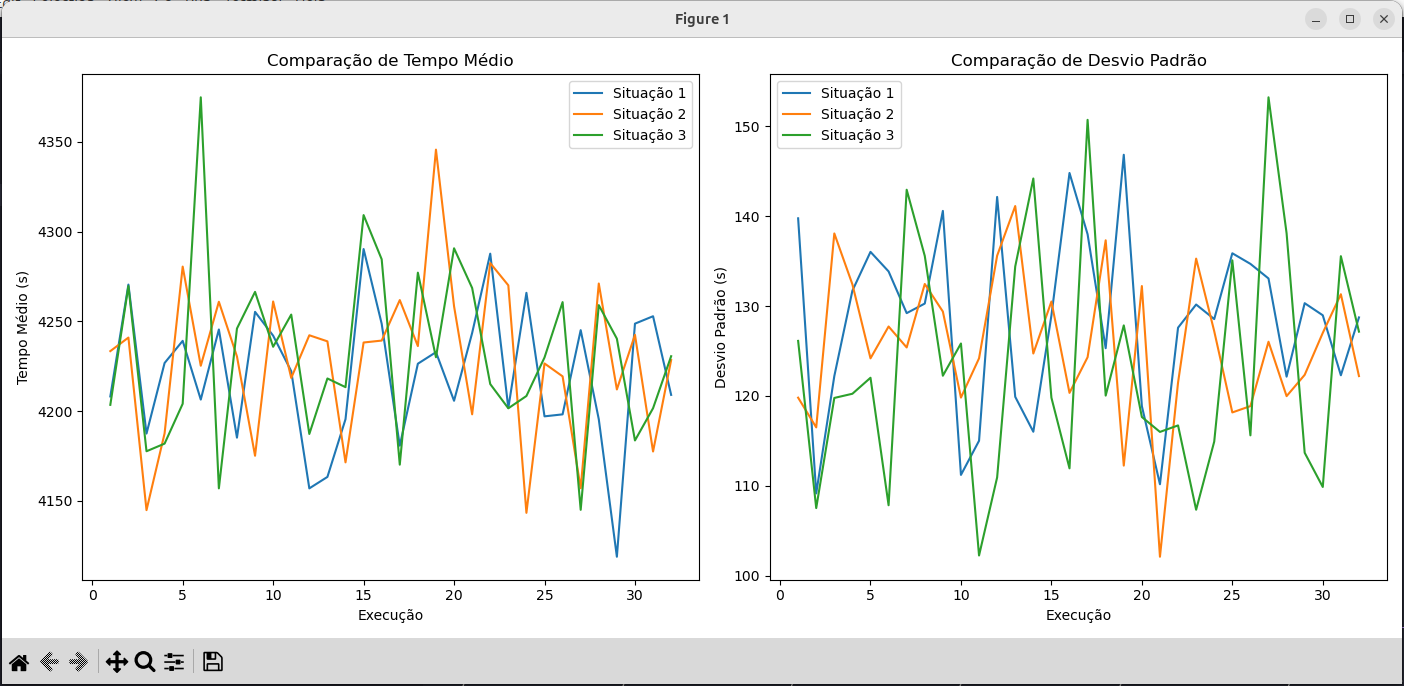
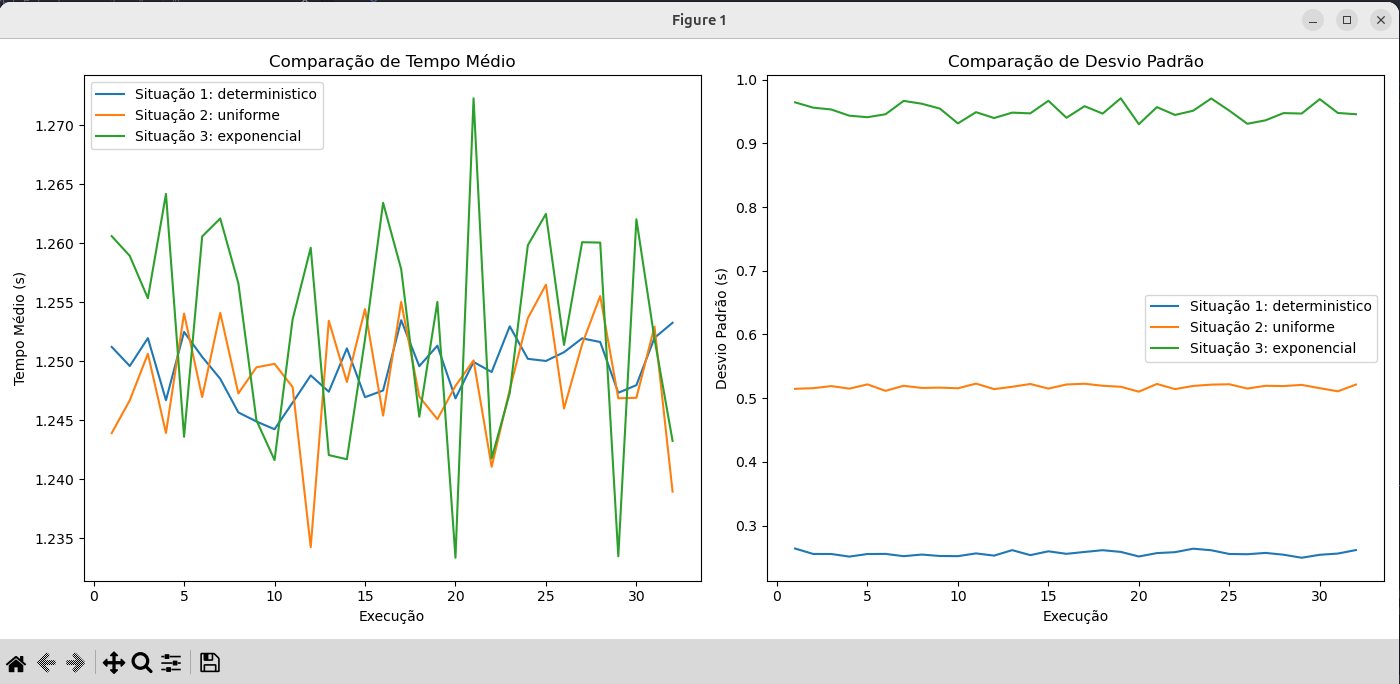
Update simulation metrics to include minimum and maximum system times; enhance analysis in RELATÓRIO.md

diff --git a/queue_simulation/single_simulation.py b/queue_simulation/single_simulation.py
@@ -6,7 +6,9 @@ lambda_chegada = 2
 for i, situacao in enumerate(situacoes, 1):
     sistema = Sistema(lambda_chegada, situacao["tempos_servico"], situacao["distrib_servico"])
     sistema.simular()
-    tempo_medio, desvio_padrao = sistema.calcular_metricas()
+    tempo_medio, desvio_padrao, tempo_minimo, tempo_maximo = sistema.calcular_metricas()
     print(f"Situação {i}:")
     print(f"  Tempo médio no sistema: {tempo_medio:.4f}s")
-    print(f"  Desvio padrão: {desvio_padrao:.4f}s\n")
+    print(f"  Desvio padrão: {desvio_padrao:.4f}s")
+    print(f"  Tempo mínimo no sistema: {tempo_minimo:.4f}s")
+    print(f"  Tempo máximo no sistema: {tempo_maximo:.4f}s\n")

diff --git a/queue_simulation/plot_simulations.py b/queue_simulation/plot_simulations.py
@@ -12,7 +12,7 @@ for situacao in situacoes:
     for _ in range(32):
         sistema = Sistema(lambda_chegada, situacao["tempos_servico"], situacao["distrib_servico"])
         sistema.simular()
-        tempo_medio, desvio_padrao = sistema.calcular_metricas()
+        tempo_medio, desvio_padrao, _, _ = sistema.calcular_metricas()
         tempos_medios.append(tempo_medio)
         desvios_padroes.append(desvio_padrao)
     resultados.append((tempos_medios, desvios_padroes))

diff --git a/queue_simulation/simulation.py b/queue_simulation/simulation.py
@@ -100,6 +100,8 @@ class Sistema:
 
     def calcular_metricas(self):
         """Calcula as métricas pedidas."""
+        tempo_minimo = np.min(self.tempos_no_sistema)
+        tempo_maximo = np.max(self.tempos_no_sistema)
         tempo_medio = np.mean(self.tempos_no_sistema)
         desvio_padrao = np.std(self.tempos_no_sistema)
-        return tempo_medio, desvio_padrao
+        return tempo_medio, desvio_padrao, tempo_minimo, tempo_maximo

diff --git a/queue_simulation/RELATÓRIO.md b/queue_simulation/RELATÓRIO.md
@@ -28,41 +28,49 @@ Simular uma rede aberta de filas composta por três servidores (S1, S2 e S3) em 
 
 ### Parâmetros Comuns
 
-- Taxa de chegada: \(\lambda = 2\) jobs por segundo.
+- Taxa de chegada: $\lambda = 2$ jobs por segundo.
 - Cada situação foi simulada 32 vezes para garantir resultados consistentes.
 
 ## Resultados Observados
 
-![Gráficos de simulações](assets/plot_simulations.png)
-
 ### Situação 1
 
-- **Tempo médio no sistema**: 4274.3938s
-- **Desvio padrão**: 144.8786s
+- **Tempo médio no sistema**: 1.2494s
+- **Desvio padrão**: 0.2564s
+- **Tempo mínimo no sistema**: 1.0000s
+- **Tempo máximo no sistema**: 4.0000s
 
 ### Situação 2
 
-- **Tempo médio no sistema**: 4205.1300s
-- **Desvio padrão**: 121.8630s
+- **Tempo médio no sistema**: 1.2468s
+- **Desvio padrão**: 0.5113s
+- **Tempo mínimo no sistema**: 0.2151s
+- **Tempo máximo no sistema**: 5.1222s
 
 ### Situação 3
 
-- **Tempo médio no sistema**: 4284.8948s
-- **Desvio padrão**: 130.9677s
+- **Tempo médio no sistema**: 1.2359s
+- **Desvio padrão**: 0.9634s
+- **Tempo mínimo no sistema**: 0.0106s
+- **Tempo máximo no sistema**: 7.8842s
 
 ## Análise dos Resultados
 
 1. **Tempos Médios**:
 
-   - O tempo médio no sistema é ligeiramente maior nas situações 1 e 3 em comparação à situação 2. Isso sugere que a variabilidade nos tempos de serviço da situação 2 pode ajudar a suavizar o acúmulo de jobs, reduzindo o tempo médio no sistema.
+   - O tempo médio no sistema é bem próximo, independente da situação.
 
 2. **Desvio Padrão**:
-   - A situação 2 apresenta o menor desvio padrão (121.8630s), indicando que os tempos no sistema foram mais uniformes.
-   - Já na situação 1, com tempos determinísticos, o desvio padrão foi maior (144.8786s), possivelmente devido à interação fixa dos tempos de serviço com as filas.
-   - A situação 3, com tempos exponenciais, também apresentou um desvio padrão relativamente baixo (130.9677s), mas ainda superior à situação 2.
+   - A situação 1 apresenta o menor desvio padrão (0.2564s), o que é esperado pois os tempos de serviço são deterministicos .
+   - Já na situação 3, com tempos exponenciais, o desvio padrão foi maior (0.9634s), possivelmente devido à maior variabilidade dos tempos de serviço.
+   - A situação 2, com tempos uniformes, também apresentou um desvio padrão relativamente alto (0.5113s), mas ainda inferior à situação 3.
+
+## Análise Gráfica
+
+![Gráficos de simulações](assets/plot_simulations.png)
+
+Os gráficos revelam que o desvio padrão se mantém relativamente estável ao longo das 32 simulações nos três cenários avaliados. Em relação ao **tempo médio no sistema**, observa-se que a **situação 3** apresenta maior variabilidade, conforme indicado pelo gráfico do desvio padrão, enquanto a **situação 1** demonstra maior estabilidade nos resultados.
 
 ## Conclusão
 
-Os resultados mostram que a variabilidade nos tempos de serviço afeta significativamente o desempenho do sistema. A distribuição uniforme nos tempos de serviço (situação 2) foi a mais eficiente em termos de tempo médio no sistema e uniformidade dos resultados. As situações com tempos determinísticos e exponenciais apresentaram tempos médios similares, mas o desvio padrão na situação determinística foi ligeiramente mais elevado.
-
-Estes resultados são coerentes com a expectativa de que a aleatoriedade introduzida pelos tempos de serviço pode afetar positivamente a dinâmica do sistema, dependendo da configuração das filas e dos servidores.
+Esses resultados confirmam que a escolha da distribuição dos tempos de serviço deve levar em conta os objetivos do sistema: enquanto tempos determinísticos garantem maior previsibilidade, distribuições com maior variabilidade podem ser mais adaptáveis em cenários dinâmicos. A análise contribui para a compreensão do impacto da variabilidade em sistemas de filas, destacando a importância de alinhar a configuração dos servidores com os requisitos de desempenho esperados.
